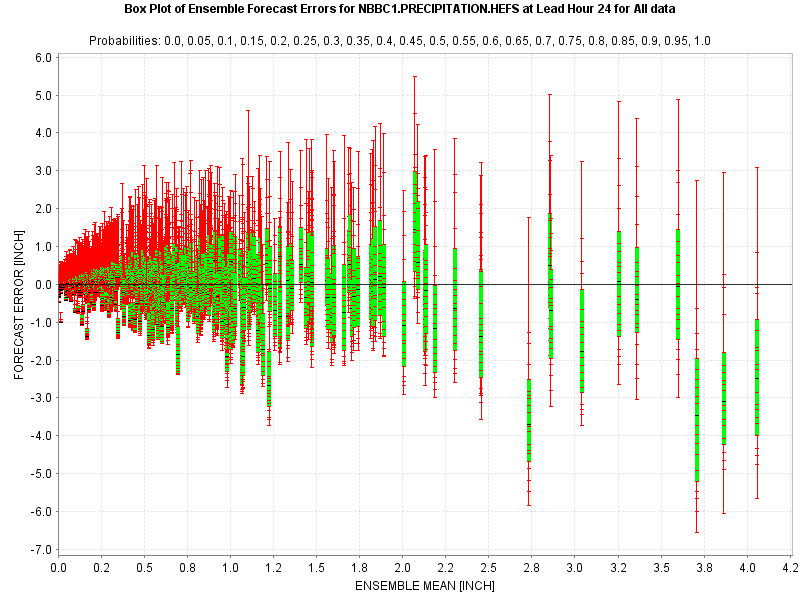
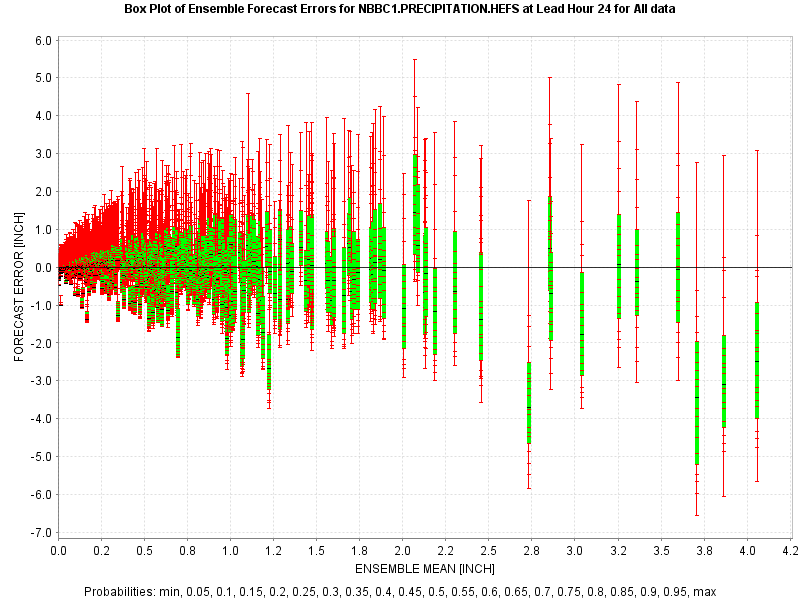
Modified appearance of box plot; updated benchmark images
Refs #40057

diff --git a/wres-vis/src/wres/vis/ChartEngineFactory.java b/wres-vis/src/wres/vis/ChartEngineFactory.java
@@ -775,7 +775,7 @@ public abstract class ChartEngineFactory
                                                              + " for "
                                                              + inputKeyInstance.getSecondKey() );
         arguments.addArgument( "probabilities",
-                               HString.buildStringFromArray( boxPlotData.getProbabilities().getDoubles(), ", " ) );
+                               HString.buildStringFromArray( boxPlotData.getProbabilities().getDoubles(), ", " ).replaceAll( "0.0,", "min," ).replaceAll( "1.0", "max" ) );
         arguments.addArgument( "domainUnitsText", meta.getInputDimension().toString() );
         arguments.addArgument( "rangeUnitsText", meta.getDimension().toString() );
 
